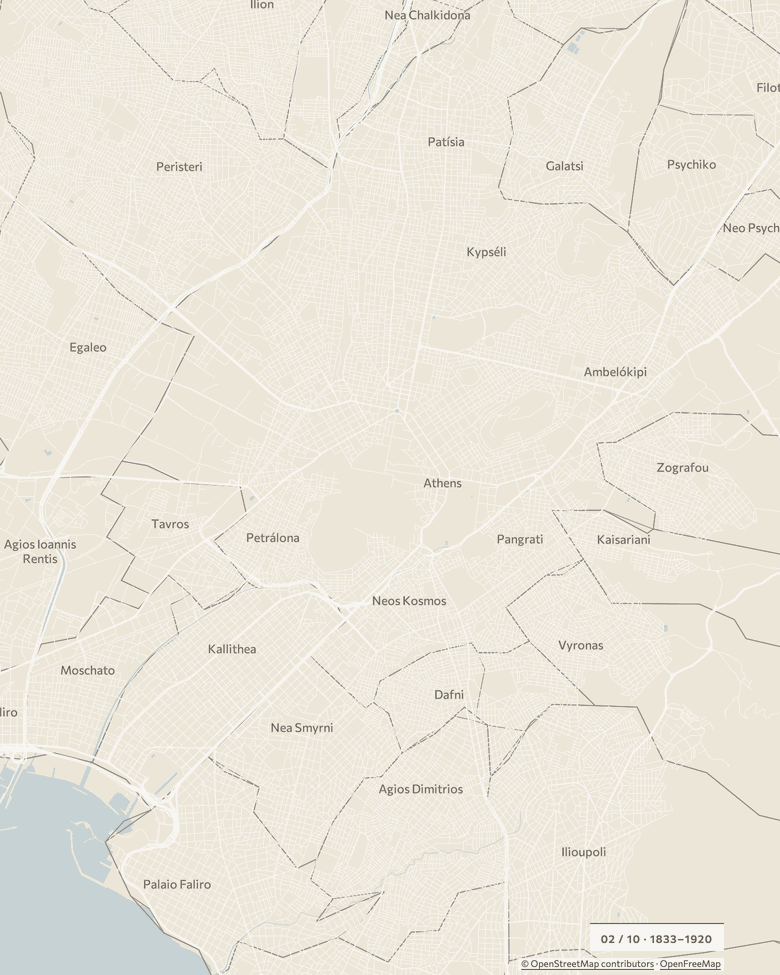
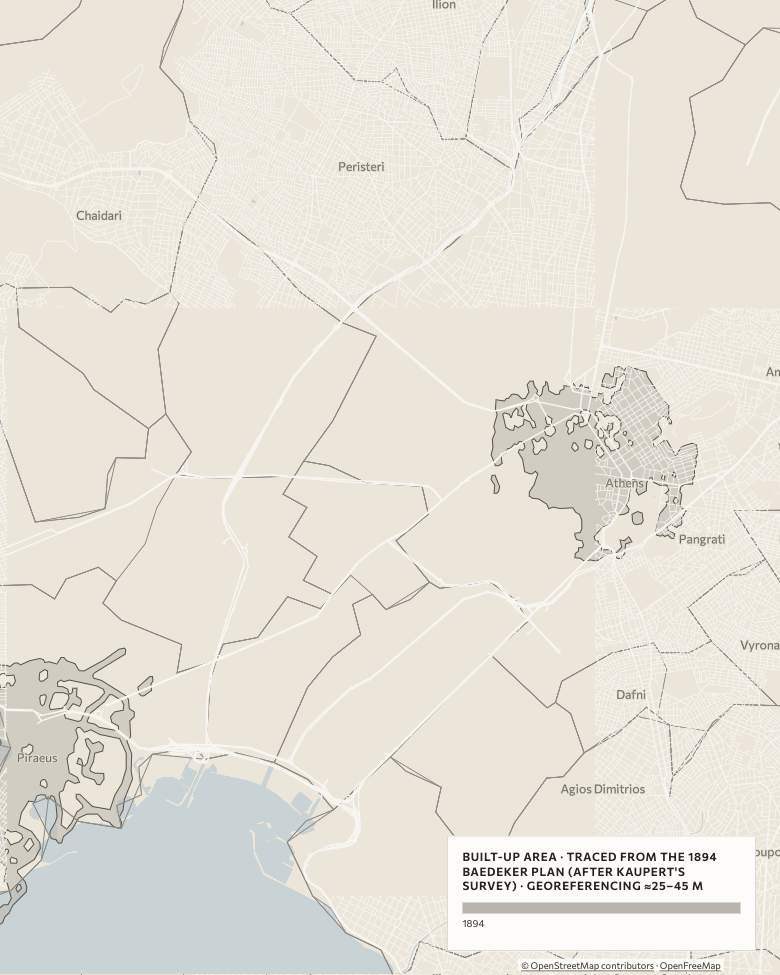
Ship traced 1894 built-up extent; hold 1908 pending owner review

diff --git a/js/main.js b/js/main.js
@@ -19,6 +19,10 @@
   var GHSL_RAMP = ["#DDDAD4", "#BBB7AF", "#736F66", "#4A463F"];
   var GHSL_YEARS = [1975, 1990, 2005, 2020];
   var HEIGHT_RAMP = ["#DEE3E7", "#B8C2CA", "#8FA0AC", "#64798A", "#3C4F60"];
+  var HISTORIC_EXTENT_LEGEND =
+    "Built-up area · traced from the 1894 Baedeker plan (after Kaupert's survey) · georeferencing ≈25–45 m";
+  var GHSL_OBSERVATION_GAP =
+    "No comparable observation exists between 1894 and 1975.";
   var MAX_BOUNDS = [
     [23.2, 37.6],
     [24.3, 38.4]
@@ -63,7 +67,8 @@
       center: [23.727, 37.976],
       zoom: 12.2,
       layer: "footprints",
-      historic: true
+      historic: true,
+      extent1894: true
     },
     "3": {
       chip: "03 / 10 · 1922–1928",
@@ -146,6 +151,7 @@
   var renderedGhslStop = null;
   var renderedGround = null;
   var renderedRefugees = null;
+  var renderedExtent1894 = null;
   var tooltipPinned = false;
 
   function cameraPadding() {
@@ -188,7 +194,8 @@
         fetchGeoJSON("data/ghsl_bands.geojson"),
         fetchGeoJSON("data/green_areas.geojson"),
         fetchGeoJSON("data/heights_10m_bounds.json"),
-        fetchGeoJSON("data/street_trees.geojson")
+        fetchGeoJSON("data/street_trees.geojson"),
+        fetchGeoJSON("data/extent_1894.geojson")
       ]);
     }
     return dataPromise;
@@ -256,6 +263,13 @@
       "visibility",
       visible ? "visible" : "none"
     );
+  }
+
+  function setHistoricExtent(visible) {
+    if (!dataReady || !map || renderedExtent1894 === visible) return;
+    renderedExtent1894 = visible;
+    map.setPaintProperty("extent-1894-fill", "fill-opacity", visible ? 0.5 : 0);
+    map.setPaintProperty("extent-1894-line", "line-opacity", visible ? 1 : 0);
   }
 
   function setBoundaryStyle(dataLayerVisible) {
@@ -377,12 +391,26 @@
   }
 
   function showGhslLegend() {
+    var description = "Cumulative built-up land: all earlier bands remain visible";
+    if (activeGhslStop === 1990) {
+      description += " " + GHSL_OBSERVATION_GAP;
+    }
     setLegend(
       "satellite",
       "Built-up land · by " + activeGhslStop,
       GHSL_RAMP,
       ["1975", "1990", "2005", "2020"],
-      "Cumulative built-up land: all earlier bands remain visible"
+      description
+    );
+  }
+
+  function showHistoricExtentLegend() {
+    setLegend(
+      "historic-extent",
+      HISTORIC_EXTENT_LEGEND,
+      ["#B9B4AA"],
+      ["1894"],
+      ""
     );
   }
 
@@ -423,7 +451,9 @@
   }
 
   function updateLegend() {
-    if (activeMapLayer === "census") {
+    if (currentChapter === "2") {
+      showHistoricExtentLegend();
+    } else if (activeMapLayer === "census") {
       showCensusLegend();
     } else if (activeMapLayer === "heights") {
       showHeightsLegend();
@@ -577,6 +607,7 @@
 
     setGround(!!state.historic);
     setRefugeeHighlight(!!state.refugees);
+    setHistoricExtent(!!state.extent1894);
     if (chapter === "5") {
       setActiveLayer(state.layer);
       applySweep("5");
@@ -714,6 +745,7 @@
     renderedGhslStop = null;
     renderedGround = null;
     renderedRefugees = null;
+    renderedExtent1894 = null;
   }
 
   function initMap() {
@@ -759,6 +791,7 @@
               data[4],
               data[5],
               data[6],
+              data[7],
               {
                 activeEpoch: activeEpoch,
                 clayExpression: clayExpression,
@@ -774,6 +807,7 @@
             renderedEpoch = null;
             renderedGhslStop = null;
             renderedRefugees = null;
+            renderedExtent1894 = null;
             setChapterState(currentChapter, {
               moveCamera: false,
               resetExplore: false

diff --git a/js/data-layers.js b/js/data-layers.js
@@ -10,6 +10,7 @@
     green,
     heightBounds,
     streetTrees,
+    extent1894,
     config
   ) {
     var activeEpoch = config.activeEpoch;
@@ -31,6 +32,7 @@
     localMap.addSource("ghsl-bands", { type: "geojson", data: ghsl });
     localMap.addSource("green-areas", { type: "geojson", data: green });
     localMap.addSource("street-trees", { type: "geojson", data: streetTrees });
+    localMap.addSource("extent-1894", { type: "geojson", data: extent1894 });
     localMap.addSource("height-carpet", {
       type: "image",
       url: "data/heights_10m.png",
@@ -140,6 +142,34 @@
           beforeRoads
         );
       });
+
+    localMap.addLayer(
+      {
+        id: "extent-1894-fill",
+        type: "fill",
+        source: "extent-1894",
+        paint: {
+          "fill-color": "#B9B4AA",
+          "fill-opacity": 0,
+          "fill-opacity-transition": overlayTransition()
+        }
+      },
+      beforeRoads
+    );
+    localMap.addLayer(
+      {
+        id: "extent-1894-line",
+        type: "line",
+        source: "extent-1894",
+        paint: {
+          "line-color": "#57534A",
+          "line-width": 1,
+          "line-opacity": 0,
+          "line-opacity-transition": overlayTransition()
+        }
+      },
+      beforeRoads
+    );
 
     localMap.addLayer(
       {

diff --git a/index.html b/index.html
@@ -91,7 +91,7 @@
       <section class="step prose" id="chapter-2" data-chapter="2">
         <div class="card">
         <p class="chapter-folio"><span>02 / 10</span><span>1833–1920</span></p>
-        <figure class="map-static"><img src="assets/static/ch02.png" width="780" height="975" loading="lazy" alt="Historic-tinted map of central Athens with present-day building footprints."><figcaption>OpenStreetMap footprints, present day · historic ground treatment only; no historic extent is shown.</figcaption></figure>
+        <figure class="map-static"><img src="assets/static/ch02.png" width="780" height="975" loading="lazy" alt="Historic-tinted map of Athens and Piraeus showing the traced 1894 built-up extent."><figcaption>Built-up area · traced from the 1894 Baedeker plan (after Kaupert's survey) · georeferencing ≈25–45 m.</figcaption></figure>
         <h2>A small capital, big plans</h2>
         <p>Athens became the capital of the new Greek state in 1834, when it was a town of a few thousand people below the Acropolis. The plan drawn for it the year before was ambitious. Stamatios Kleanthis and Eduard Schaubert laid out boulevards, squares, public gardens, and an archaeological park wrapping the ancient center. Within months the plan was in retreat. Landowners whose plots fell under the proposed squares protested the expropriations, the young state had no money to pay them, and in 1834 Leo von Klenze redrew the scheme at a fraction of its ambition. That first defeat set the pattern for the next century and a half. Athenian land was held in small private plots, assembling them was beyond the state’s means, and plans that needed open space lost to the owners of the ground. The city then grew slowly, a modest capital of neoclassical houses spreading out from the old town. By 1920 the wider agglomeration held about 453,000 people. Surveys made by German cartographers in the 1870s and 1880s show how little ground a century of growth had covered.</p>
         <aside class="sources"><span class="sources__label">2 / Sources</span><p>Athens Social Atlas (Kleanthis–Schaubert entry); census series via Salvati 2022; Kaupert, Karten von Attika.</p></aside>

diff --git a/DESIGN.md b/DESIGN.md
@@ -72,6 +72,12 @@ Fill `#7A9367` at 60% over map ground, boundary `#4F7A3D` at 0.5px. Class filter
 
 The building-height carpet uses the validated sequential slate ramp `#DEE3E7 → #B8C2CA → #8FA0AC → #64798A → #3C4F60` at breaks 0–3 / 3–9 / 9–15 / 15–21 / 21+ m. It is served as a transparent, georeferenced PNG image overlay rather than vector cells; zero and no-data cells are transparent. The source is the Urban Atlas 2012 DHM at 10 m resolution, so the 2012 reference date and its caveat remain visible whenever the layer is on.
 
+### Addendum — historic extent owner adjudication (2026-07-15)
+
+Chapter 2 binds the traced 1894 built-up extent from the Baedeker Athens and Piraeus plans, both labelled “Nach Kaupert,” over the historic ground tint. The extent uses `#B9B4AA` at 0.5 fill opacity with a 1px `#57534A` outline. Its legend is “Built-up area · traced from the 1894 Baedeker plan (after Kaupert's survey) · georeferencing ≈25–45 m.” The owner accepted this layer after 99.26% of its area fell within the GHSL-1975 band buffered by 100 m.
+
+The 1908 candidate is held, not rejected, at 98.57% pending the owner's Gate C decision. It must not be shipped or clipped in the interim: chapter 3 remains unchanged, and chapter 8's first GHSL state states that no comparable observation exists between 1894 and 1975.
+
 ## 3. Typography
 
 | Role | Face | Size / weight |

diff --git a/content/chapters.md b/content/chapters.md
@@ -14,7 +14,7 @@ Stand on a street corner anywhere in the Athens basin and look up. The same buil
 
 ## 2. A small capital, big plans (1833–1920)
 
-**Map state:** historic ground tint with the Attica outline; the Kaupert raster remains unavailable pending its licence check.
+**Map state:** historic ground tint with the traced 1894 built-up extent from the Baedeker Athens and Piraeus plans (after Kaupert's survey).
 
 Athens became the capital of the new Greek state in 1834, when it was a town of a few thousand people below the Acropolis. The plan drawn for it the year before was ambitious. Stamatios Kleanthis and Eduard Schaubert laid out boulevards, squares, public gardens, and an archaeological park wrapping the ancient center. Within months the plan was in retreat. Landowners whose plots fell under the proposed squares protested the expropriations, the young state had no money to pay them, and in 1834 Leo von Klenze redrew the scheme at a fraction of its ambition. That first defeat set the pattern for the next century and a half. Athenian land was held in small private plots, assembling them was beyond the state's means, and plans that needed open space lost to the owners of the ground. The city then grew slowly, a modest capital of neoclassical houses spreading out from the old town. By 1920 the wider agglomeration held about 453,000 people. Surveys made by German cartographers in the 1870s and 1880s show how little ground a century of growth had covered.
 